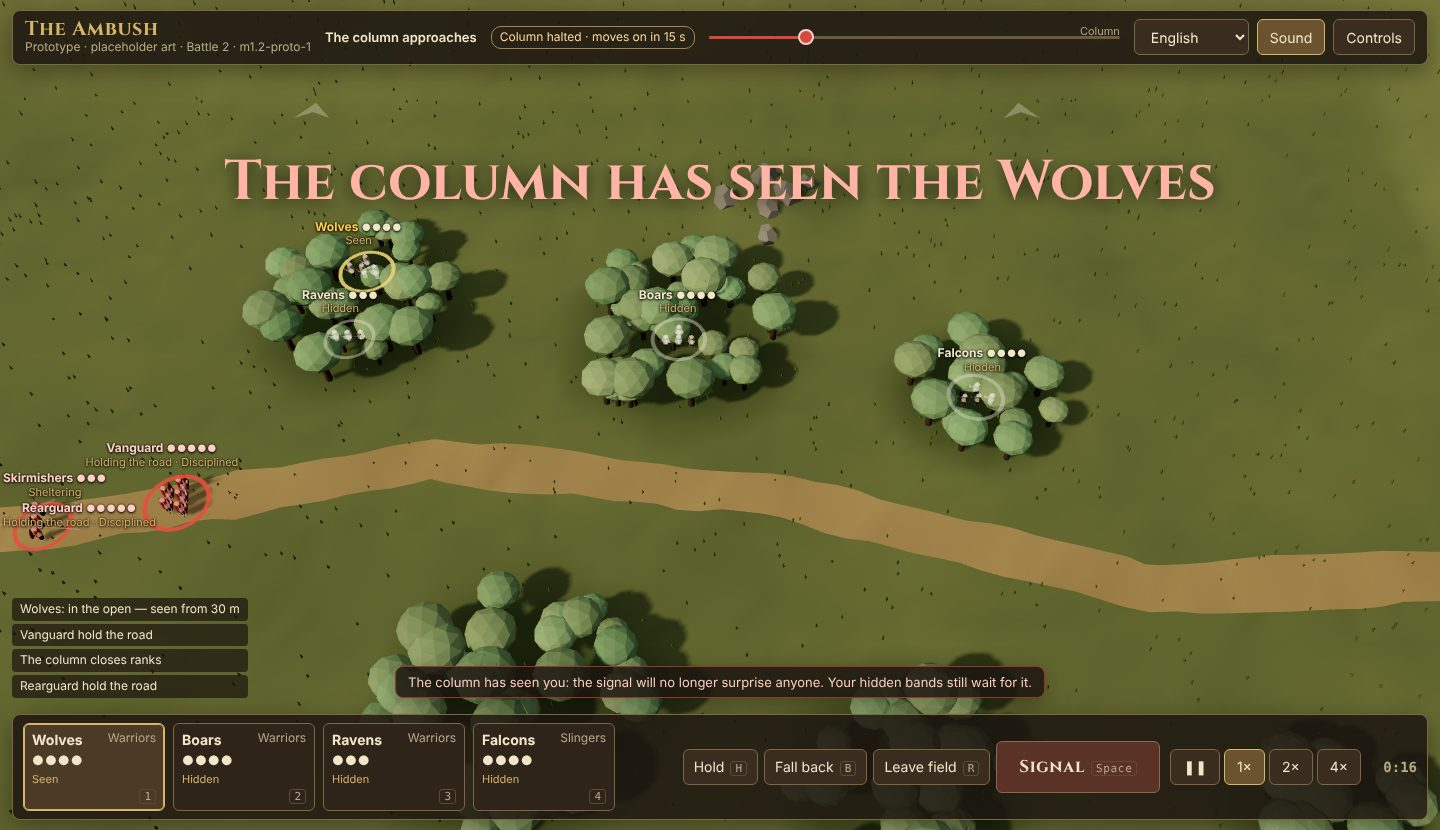
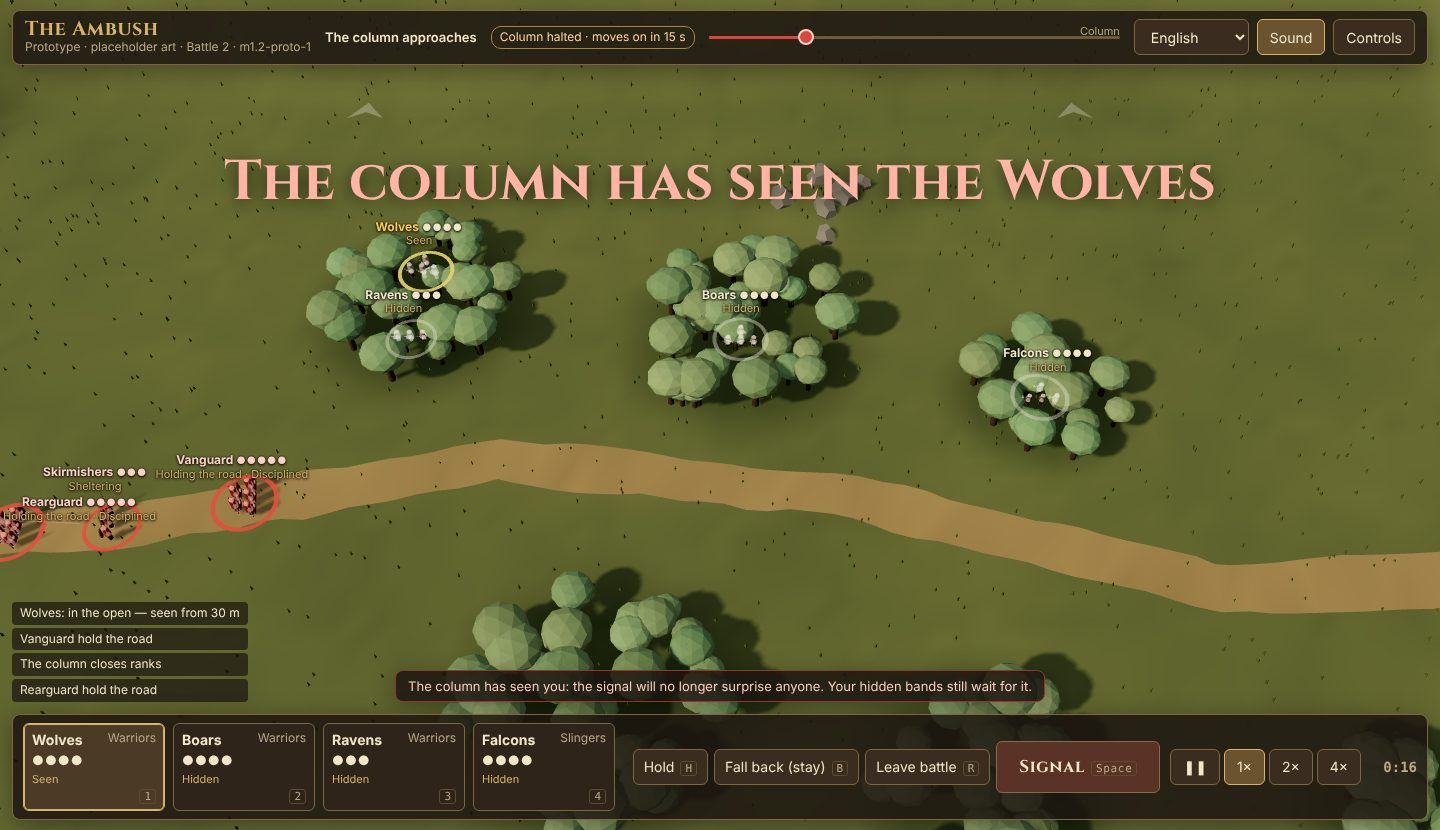
fix(tatico): primeiro ecrã utilizável sem ajuda antes do playtest M1.2
Correções de usabilidade aprovadas para o primeiro playtest externo. Só
ecrã e textos: simulação, equilíbrio, reação romana, relatório, campanha
e gravações inalterados; PROTO_VERSION continua m1.2-proto-1.

- Câmara inicial: os quatro grupos começavam por baixo da barra do topo
  e a 1366×768 não se conseguiam agarrar. Novo enquadramento; posições
  táticas iguais.
- Objetivo curto no painel de preparação (inglês e pt-PT), sem revelar
  onde esconder nem quando dar o sinal.
- B «Fall back (stay)» vs R «Leave battle»: rótulos, dicas dos botões,
  dica da batalha e lista de controlos.
- A dica e o registo acompanham a altura da barra de baixo (duas linhas
  a 1366×768 tapavam a dica).
- tools/e2e-tactical-first-screen.mjs: 1280×720, 1366×768, 1920×1080;
  grupos visíveis e arrastados com o rato real, dica acima da barra,
  objetivo em ambos os idiomas. Falha sem as correções. Capturas de
  evidência regeneradas.

Design: docs/tactical/prototipo-m1.md (secção «correções de usabilidade»)

Claude-Session: https://claude.ai/code/session_01ELAARKGhrLtBFMz5A272nU

diff --git a/src/i18n/catalogs/pt-PT/tactical.js b/src/i18n/catalogs/pt-PT/tactical.js
@@ -5,18 +5,19 @@ export default {
   "phase.waiting": "A coluna aproxima-se",
   "phase.battle": "Batalha",
   "phase.over": "Fim da batalha",
+  "prep.goal": "Uma coluna romana vai marchar por esta estrada, vinda da esquerda. Desbarata-a antes que saia do vale.",
   "prep.hint": "Arrasta os grupos para os bosques para os esconderes. O mato também os protege das pedras e dos dardos. Quem ficar a descoberto vai ser visto.",
   "prep.start": "Começar",
   "prep.reset": "Repor posições",
   "prep.toSlingers": "Passar a fundeiros",
   "prep.toWarriors": "Passar a guerreiros",
   "wait.hint": "Seleciona um grupo e usa o botão direito para planear o ataque. Os grupos escondidos só se mexem quando deres o sinal.",
-  "battle.hint": "Botão direito num inimigo para atacar, ou no chão para mover. B: recuar para o bosque mais perto · Shift + botão direito: recuar para um ponto. Ataca flancos e costas.",
+  "battle.hint": "Botão direito num inimigo para atacar, ou no chão para mover. B: recuar para o bosque mais perto e continuar na luta · R: abandonar a batalha de vez. Ataca flancos e costas.",
   "signal": "Sinal",
   "signal.banner": "Ao sinal!",
   "signal.given": "Sinal dado",
   "cmd.hold": "Manter",
-  "cmd.retreat": "Sair do campo",
+  "cmd.retreat": "Abandonar batalha",
   "cmd.attack": "Botão direito: atacar",
   "group.lobos": "Lobos",
   "group.javalis": "Javalis",
@@ -50,7 +51,9 @@ export default {
   "time.play": "Continuar",
   "sound": "Som",
   "help": "Controlos",
-  "help.body": "Arrastar grupos (preparação) · Clique: selecionar · 1–4: escolher grupo · Botão direito: atacar inimigo ou mover · Shift + botão direito: recuar para um ponto · B: recuar para o bosque mais perto · Espaço: sinal · H: manter · R: sair do campo · P: pausa · F: velocidade · Q/E: rodar · WASD / setas: mover a câmara · Roda: zoom",
+  "cmd.fallBackTip": "B — Recuar para o bosque mais perto. O grupo fica no campo e pode voltar a combater. Shift + botão direito: recuar para um ponto.",
+  "cmd.retreatTip": "R — Sair do campo de vez. O grupo deixa de participar nesta batalha.",
+  "help.body": "Arrastar grupos (preparação) · Clique: selecionar · 1–4: escolher grupo · Botão direito: atacar inimigo ou mover · Shift + botão direito: recuar para um ponto · B: recuar para o bosque mais perto (fica no campo) · Espaço: sinal · H: manter · R: sair do campo de vez · P: pausa · F: velocidade · Q/E: rodar · WASD / setas: mover a câmara · Roda: zoom",
   "men": {
     "one": "{count} homem",
     "many": "{count} homens",
@@ -81,7 +84,7 @@ export default {
   "result.copyFailed": "Cópia bloqueada — seleciona o texto abaixo e copia",
   "seconds": "{count} s",
   "battleNo": "Batalha {seed}",
-  "cmd.fallBack": "Recuar",
+  "cmd.fallBack": "Recuar (fica)",
   "ack.atacar": "Ao ataque!",
   "ack.manter": "Firmes!",
   "ack.recuar": "Recuar!",

diff --git a/src/i18n/catalogs/en/tactical.js b/src/i18n/catalogs/en/tactical.js
@@ -5,18 +5,19 @@ export default {
   "phase.waiting": "The column approaches",
   "phase.battle": "Battle",
   "phase.over": "Battle over",
+  "prep.goal": "A Roman column will march along this road from the left. Break it before it leaves the valley.",
   "prep.hint": "Drag your bands into the woods to hide them. Woods also shield them from stones and javelins. Bands left in the open will be seen.",
   "prep.start": "Start",
   "prep.reset": "Reset positions",
   "prep.toSlingers": "Make slingers",
   "prep.toWarriors": "Make warriors",
   "wait.hint": "Select a band and right-click to plan its attack. Hidden bands only move when you give the signal.",
-  "battle.hint": "Right-click an enemy to attack, or the ground to move. B: fall back to the nearest woods · Shift + right-click: fall back to a point. Strike flanks and rear.",
+  "battle.hint": "Right-click an enemy to attack, or the ground to move. B: fall back to the nearest woods and stay in the fight · R: leave the battle for good. Strike flanks and rear.",
   "signal": "Signal",
   "signal.banner": "The signal!",
   "signal.given": "Signal given",
   "cmd.hold": "Hold",
-  "cmd.retreat": "Leave field",
+  "cmd.retreat": "Leave battle",
   "cmd.attack": "Right-click: attack",
   "group.lobos": "Wolves",
   "group.javalis": "Boars",
@@ -50,7 +51,9 @@ export default {
   "time.play": "Play",
   "sound": "Sound",
   "help": "Controls",
-  "help.body": "Drag bands (preparation) · Click: select · 1–4: select band · Right-click: attack enemy or move · Shift + right-click: fall back to a point · B: fall back to the nearest woods · Space: signal · H: hold · R: retreat off the field · P: pause · F: speed · Q/E: rotate · WASD / arrows: move camera · Wheel: zoom",
+  "cmd.fallBackTip": "B — Fall back to the nearest woods. The band stays on the field and can fight again. Shift + right-click: fall back to a point.",
+  "cmd.retreatTip": "R — Leave the field for good. The band takes no further part in this battle.",
+  "help.body": "Drag bands (preparation) · Click: select · 1–4: select band · Right-click: attack enemy or move · Shift + right-click: fall back to a point · B: fall back to the nearest woods (stays on the field) · Space: signal · H: hold · R: leave the field for good · P: pause · F: speed · Q/E: rotate · WASD / arrows: move camera · Wheel: zoom",
   "men": {
     "one": "{count} man",
     "other": "{count} men"
@@ -80,7 +83,7 @@ export default {
   "result.copyFailed": "Copy blocked — select the text below and copy it",
   "seconds": "{count} s",
   "battleNo": "Battle {seed}",
-  "cmd.fallBack": "Fall back",
+  "cmd.fallBack": "Fall back (stay)",
   "ack.atacar": "Attack!",
   "ack.manter": "Hold!",
   "ack.recuar": "Fall back!",

diff --git a/tactical-proto.html b/tactical-proto.html
@@ -46,6 +46,7 @@ kbd { font: 11px ui-monospace, monospace; color: var(--dim); border: 1px solid #
 #prep { position: fixed; left: 12px; top: 74px; width: min(330px, calc(100vw - 24px)); padding: 14px; }
 #prep p { margin: 0 0 12px; color: var(--ink); }
 #prep .row { display: flex; gap: 8px; }
+#goal { font-weight: 700; color: var(--bronze); }
 #prep-warn { font-size: 13px; color: var(--ok); }
 #prep-warn.bad { color: #ffb19c; }
 #start { background: #7a4f22; border-color: var(--bronze); font-weight: 700; flex: 1; }
@@ -148,6 +149,7 @@ kbd { font: 11px ui-monospace, monospace; color: var(--dim); border: 1px solid #
 </header>
 
 <aside id="prep" class="panel">
+  <p id="goal" data-t="prep.goal"></p>
   <p data-t="prep.hint"></p>
   <p id="prep-warn" aria-live="polite"></p>
   <div class="row"><button id="start" data-t="prep.start">Start</button><button id="reset" data-t="prep.reset">Reset</button></div>
@@ -161,8 +163,8 @@ kbd { font: 11px ui-monospace, monospace; color: var(--dim); border: 1px solid #
   <div id="orders">
     <button id="role"></button>
     <button id="hold"><span data-t="cmd.hold">Hold</span><kbd>H</kbd></button>
-    <button id="fallback"><span data-t="cmd.fallBack">Fall back</span><kbd>B</kbd></button>
-    <button id="retreat"><span data-t="cmd.retreat">Leave field</span><kbd>R</kbd></button>
+    <button id="fallback"><span data-t="cmd.fallBack">Fall back (stay)</span><kbd>B</kbd></button>
+    <button id="retreat"><span data-t="cmd.retreat">Leave battle</span><kbd>R</kbd></button>
     <button id="signal"><span data-t="signal">Signal</span><kbd>Space</kbd></button>
   </div>
   <div id="time">

diff --git a/src/tactical/proto/main.js b/src/tactical/proto/main.js
@@ -29,6 +29,7 @@ function applyTexts() {
   for (const el of document.querySelectorAll('[data-t]')) el.textContent = t(el.dataset.t);
   $('lang').value = i18n.locale;
   $('seed').textContent = t('battleNo', { seed: ui.seed });
+  $('fallback').title = t('cmd.fallBackTip'); $('retreat').title = t('cmd.retreatTip');
   $('ver').textContent = PROTO_VERSION;   // discreto, para não misturar resultados de versões diferentes no playtest
   $('pause').setAttribute('aria-label', ui.paused ? t('time.play') : t('time.pause'));
   if (!$('result').hidden) showResult();
@@ -403,6 +404,8 @@ window.addEventListener('blur', () => keys.clear());
 function togglePause() { ui.paused = !ui.paused; $('pause').classList.toggle('on', ui.paused); $('pause').textContent = ui.paused ? '▶' : '❚❚'; applyTexts(); }
 function setSpeed(s) { ui.speed = s; for (const b of document.querySelectorAll('[data-speed]')) b.classList.toggle('on', +b.dataset.speed === s); }
 
+// A barra de baixo muda de altura (duas linhas em ecrãs estreitos): a dica e o registo ficam sempre por cima dela.
+new ResizeObserver(() => { const b = `${$('bar').offsetHeight + 22}px`; $('hint').style.bottom = $('feed').style.bottom = b; }).observe($('bar'));
 $('cards').addEventListener('click', ev => { const c = ev.target.closest('.card'); if (c) ui.selected = c.dataset.id; });
 $('start').addEventListener('click', startBattle);
 $('reset').addEventListener('click', () => { ui.placement = defaultPlacement(); });

diff --git a/src/tactical/proto/view.js b/src/tactical/proto/view.js
@@ -298,7 +298,9 @@ export function createView(canvas) {
   }
 
   // --- câmara ---
-  const cam = { tx: 86, ty: 58, dist: 96, yaw: 0, pitch: 0.95, shake: 0 };
+  // Enquadramento inicial: os quatro grupos (zona de colocação, y ≈ 9) ficam abaixo da barra do topo e à direita do painel
+  // de preparação de 1280×720 a 1920×1080 (tests: e2e-tactical-m12, verificação «primeiro ecrã»).
+  const cam = { tx: 80, ty: 44, dist: 110, yaw: 0, pitch: 0.95, shake: 0 };
   function placeCamera() {
     cam.tx = Math.min(FIELD.w + 10, Math.max(-10, cam.tx)); cam.ty = Math.min(FIELD.h + 10, Math.max(-10, cam.ty));
     cam.dist = Math.min(150, Math.max(32, cam.dist));

diff --git a/docs/tactical/prototipo-m1.md b/docs/tactical/prototipo-m1.md
@@ -120,3 +120,13 @@ Todas as diferenças vêm da correção dos vélites; as mudanças de ecrã não
 ### Hipótese H2 (não implementada): recuperar a ocultação
 
 Um grupo visto voltaria a ficar escondido depois de **perder o contacto visual** com todos os romanos (nenhum a menos de `spotRange` × 1,5, por exemplo) e de **permanecer em cobertura** (ocultação > 0,5) durante um tempo mínimo (por exemplo 15 s), sem combater nem disparar. A coluna continuaria de sobreaviso (sem surpresa). Precisa de condições explícitas no ecrã (contagem no cartão), de testes de determinismo e de comparação de equilíbrio com os robôs — esperar escondido não pode voltar a ganhar sozinho. Decisão depois do playtest do M1.2.
+
+## M1.2 — correções de usabilidade antes do primeiro playtest externo
+
+Só ecrã e textos; simulação, equilíbrio, reação romana, relatório e `PROTO_VERSION` (`m1.2-proto-1`) inalterados. Guardar o SHA da build com as notas das sessões.
+
+- **Câmara inicial** (`view.js`): os quatro grupos começavam por baixo da barra do topo; a 1366×768 não se conseguiam agarrar sem mexer na câmara. Novo enquadramento (`tx 80, ty 44, dist 110`): grupos e etiquetas abaixo da barra e à direita do painel de preparação de 1280×720 a 1920×1080. Posições táticas iguais.
+- **Objetivo** no painel de preparação (`prep.goal`, inglês e português): a coluna vem da esquerda e tem de ser desbaratada antes de sair do vale. Não diz onde esconder nem quando dar o sinal.
+- **B vs R**: botões «Fall back (stay)» / «Leave battle» («Recuar (fica)» / «Abandonar batalha»), dica de cada botão, dica da batalha e lista de controlos explicam que B fica no campo e R sai de vez.
+- **Layout**: a dica e o registo acompanham a altura da barra de baixo (a 1366×768 passa a duas linhas e tapava a dica).
+- Verificação: `node tools/e2e-tactical-first-screen.mjs` (falha 20 verificações sem as correções); capturas `production/qa/evidence/tactical-proto-m12/primeiro-ecra-*.jpg`.
